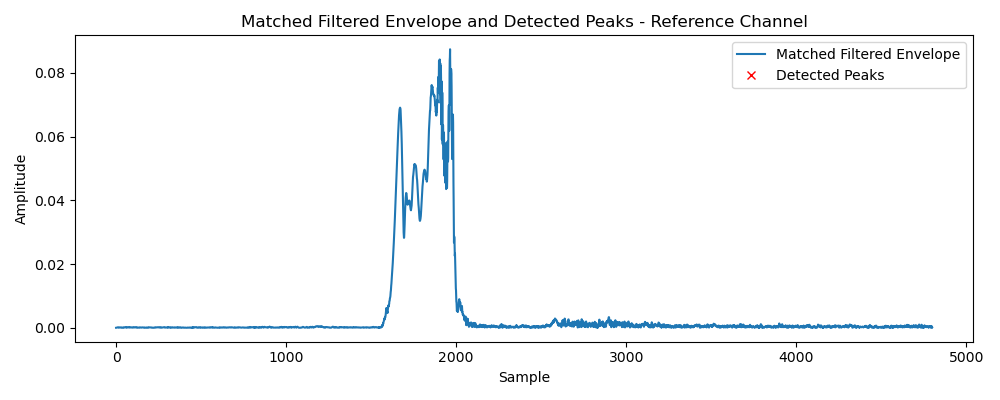
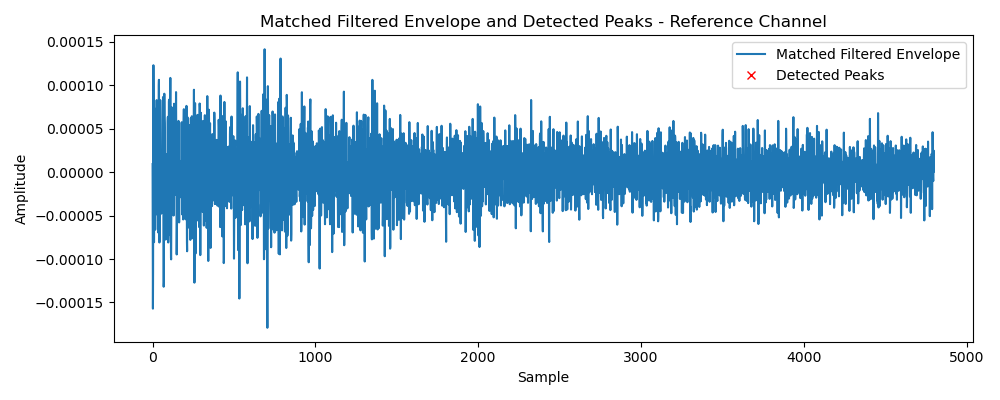
foxed stop issues and partly rejection

diff --git a/passive_robat/robat_py/RobotMove.py b/passive_robat/robat_py/RobotMove.py
@@ -53,10 +53,10 @@ class RobotMove():
                     self.stop()
                     continue  # Go back to top of loop
 
-                #self.avoid_white_line()
+                self.avoid_white_line()
 
                 # Flush the angle queue to obtain the latest angle value.
-                #angle = None
+                #  angle = None
                 while not angle_queue.empty():
                     angle = angle_queue.get()
                     #print('Angle move:', angle)
@@ -90,10 +90,20 @@ class RobotMove():
                     self.robot["leds.bottom.left"] = [255, 0, 0]
                     if angle < 0:
                         print('5: Negative angle received, rotating right')
+                        self.stop()
+                        self.robot["leds.bottom.right"] = [255, 0, 0]
+                        self.robot["leds.bottom.left"] = [255, 0, 0]                    
+                        time.sleep(1)
                         self.rotate_right(angle)
+                        
                     else:
                         print('6: Positive angle received, rotating left')
+                        self.stop()
+                        self.robot["leds.bottom.right"] = [255, 0, 0]
+                        self.robot["leds.bottom.left"] = [255, 0, 0]
+                        time.sleep(1)                        
                         self.rotate_left(angle)
+
                 else:
                     pass
 
@@ -102,14 +112,13 @@ class RobotMove():
                 self.move_forward()
                 level = None
 
-                # A brief delay to avoid overloading the CPU.
-                #time.sleep(0.05)
-
             except Exception as e:
                 print('Error in audio_move:', e)
                 self.stop_bool = True
             except KeyboardInterrupt:
                 self.stop()
+        else:
+            self.stop()
 
     def move_forward(self):
         self.robot["leds.top"] = [0, 255, 0]
@@ -150,6 +159,8 @@ class RobotMove():
             else:
                 self.robot['motor.left.target'] = 0
                 self.robot['motor.right.target'] = 0
+        else:
+            self.stop()
 
     def rotate_left(self, angle):
         if self.robot is not None:
@@ -168,6 +179,9 @@ class RobotMove():
             else:
                 self.robot['motor.left.target'] = 0
                 self.robot['motor.right.target'] = 0
+        else:
+            self.stop()
+
 
     def move_back(self): # move back when robot sees a obstacle in front
         if self.robot is not None:
@@ -187,6 +201,8 @@ class RobotMove():
                 # print("robot stop")
                 self.robot['motor.left.target'] = 0
                 self.robot['motor.right.target'] = 0
+        else:
+            self.stop()
 
     def check_stop_all_motion(self):
         if self.robot is not None:
@@ -194,54 +210,58 @@ class RobotMove():
             if self.robot['prox.ground.delta'][0] < 1 or self.robot['prox.ground.delta'][1] < 10:
                 #print("Robot lifted")
                 return True
-        return False
+        else:
+            self.stop()
+            return False
 
     def avoid_white_line(self):
-        # check if the white line is detected
-        if self.robot['prox.ground.reflected'][0] > self.left_sensor_threshold  and self.robot['prox.ground.reflected'][1] > self.right_sensor_threshold:
-            # Both sensors detect the line
-            #print('line detected L and R')
-            counter = self.angle_to_time(40, self.forward_speed)
-            while counter > 0:
-                if self.check_stop_all_motion():
-                    self.stop_bool = True
-                    break
-                self.robot['motor.left.target'] = self.turn_speed
-                self.robot['motor.right.target'] = -self.turn_speed
-                counter -= 1
-            return
-        if self.robot['prox.ground.reflected'][0] > self.left_sensor_threshold:
-            # Left sensor detects the line
-            #print('line detected L')
-            counter = self.angle_to_time(40, self.forward_speed)
-            while counter > 0:
-                if self.check_stop_all_motion():
-                    #print("stop all motion: rotate right")
-                    self.stop_bool = True
-                    break
-                self.robot['motor.left.target'] = self.turn_speed
-                self.robot['motor.right.target'] = -self.turn_speed
-                counter -= 1
-        if self.robot['prox.ground.reflected'][1] > self.right_sensor_threshold:
-            # Right sensor detects the line   
-            #print('line detected R')
-            counter = self.angle_to_time(40, self.forward_speed)
-            while counter > 0:
-                if self.check_stop_all_motion():
-                    #print("stop all motion: rotate right")
-                    self.stop_bool = True
-                    break
-                self.robot['motor.left.target'] = self.turn_speed
-                self.robot['motor.right.target'] = -self.turn_speed
-                counter -= 1
+        if self.robot is not None:
+            # check if the white line is detected
+            if self.robot['prox.ground.reflected'][0] > self.left_sensor_threshold  and self.robot['prox.ground.reflected'][1] > self.right_sensor_threshold:
+                # Both sensors detect the line
+                #print('line detected L and R')
+                counter = self.angle_to_time(90, self.forward_speed)
+                while counter > 0:
+                    if self.check_stop_all_motion():
+                        self.stop_bool = True
+                        break
+                    self.robot['motor.left.target'] = self.turn_speed
+                    self.robot['motor.right.target'] = -self.turn_speed
+                    counter -= 1
+                return
+            if self.robot['prox.ground.reflected'][0] > self.left_sensor_threshold:
+                # Left sensor detects the line
+                #print('line detected L')
+                counter = self.angle_to_time(90, self.forward_speed)
+                while counter > 0:
+                    if self.check_stop_all_motion():
+                        #print("stop all motion: rotate right")
+                        self.stop_bool = True
+                        break
+                    self.robot['motor.left.target'] = self.turn_speed
+                    self.robot['motor.right.target'] = -self.turn_speed
+                    counter -= 1
+            if self.robot['prox.ground.reflected'][1] > self.right_sensor_threshold:
+                # Right sensor detects the line   
+                #print('line detected R')
+                counter = self.angle_to_time(90, self.forward_speed)
+                while counter > 0:
+                    if self.check_stop_all_motion():
+                        #print("stop all motion: rotate right")
+                        self.stop_bool = True
+                        break
+                    self.robot['motor.left.target'] = self.turn_speed
+                    self.robot['motor.right.target'] = -self.turn_speed
+                    counter -= 1
+        else:
+            self.stop()
 
     def stop(self):
-        if self.robot is not None:
-            self.robot['motor.left.target'] = 0
-            self.robot['motor.right.target'] = 0
-            self.robot["leds.top"] = [0, 0, 0]
-            self.robot["leds.bottom.right"] = [0, 0, 0]
-            self.robot["leds.bottom.left"] = [0, 0, 0]
+        self.robot['motor.left.target'] = 0
+        self.robot['motor.right.target'] = 0
+        self.robot["leds.top"] = [0, 0, 0]
+        self.robot["leds.bottom.right"] = [0, 0, 0]
+        self.robot["leds.bottom.left"] = [0, 0, 0]
 
 #     def collision_avoidance(self):
 #         if self.robot is not None:

diff --git a/passive_robat/robat_py/AudioProcessor.py b/passive_robat/robat_py/AudioProcessor.py
@@ -95,9 +95,9 @@ class AudioProcessor:
     def update(self):
         start_time = time.time()
         in_buffer = self.buffer
-        print('in buffer shape', in_buffer.shape)
+        # print('in buffer shape', in_buffer.shape)
         start_time_1 = time.time()
-        print('buffer queue time seconds=', start_time_1 - start_time)
+        # print('buffer queue time seconds=', start_time_1 - start_time)
 
         # Plot and save the raw input buffer for the reference channel
         # import matplotlib.pyplot as plt
@@ -114,21 +114,41 @@ class AudioProcessor:
         in_sig = signal.sosfiltfilt(self.sos, in_buffer, axis=0)
         # Apply matched filter to each channel separately
 
-        start_time_2 = time.time()
+        # start_time_2 = time.time()
 
+        # # Match filter the input with the output template to find similar sweeps
         # mf_signal = matched_filter(in_sig[:, self.ref], self.sweep)
         # peaks = detect_peaks(mf_signal, self.fs, prominence=0.5, distance=0.01)
+        # if len(peaks) > 0:
+        #     start_idx = peaks[0]
+        #     end_idx = int(start_idx + self.sweep.shape[0])
+        #     trimmed_input_peaks = in_sig[start_idx:end_idx, :]
 
-        filtered_envelope = np.abs(signal.hilbert(in_sig[:, self.ref]))
-        peaks = detect_peaks(filtered_envelope, self.fs, prominence=0.5, distance=0.01)
-        print(np.shape(peaks))
+        #     # plot trimmed input peaks 
+        #     plt.figure(figsize=(10, 12))
+        #     for ch in range(trimmed_input_peaks.shape[1]):
+        #         ax = plt.subplot(trimmed_input_peaks.shape[1], 1, ch + 1, sharey=None if ch == 0 else plt.gca())
+        #         plt.plot(trimmed_input_peaks[:, ch])
+        #         plt.title(f'Trimmed Input Peaks - Channel {ch+1}')
+        #         plt.xlabel('Sample')
+        #         plt.grid(True)
+        #         if ch == 0:
+        #             plt.ylabel('Amplitude')
+        #     plt.tight_layout()
+        #     plt.savefig('trimmed_input_peaks_ref_channel.png')
+        #     plt.close()
+
+        # Filter the input with its envelope but without signal reference template
+        # filtered_envelope = np.abs(signal.hilbert(in_sig[:, self.ref], axis = 0))
+        # peaks = detect_peaks(in_sig[:, self.ref], self.fs, prominence=0.5, distance=0.01)
+
         start_time_3 = time.time()
-        print('matched filter time seconds=', start_time_3 - start_time_2)
+        # print('matched filter time seconds=', start_time_3 - start_time_2)
 
         # Plot matched filtered signal and detected peaks for the reference channel
         # plt.figure(figsize=(10, 4))
-        # plt.plot(filtered_envelope, label='Matched Filtered Envelope')
-        # plt.plot(peaks, filtered_envelope[peaks], "rx", label='Detected Peaks')
+        # plt.plot(in_sig[:, self.ref], label='Matched Filtered Envelope')
+        # plt.plot(peaks, mf_signal[peaks], "rx", label='Detected Peaks')
         # plt.title('Matched Filtered Envelope and Detected Peaks - Reference Channel')
         # plt.xlabel('Sample')
         # plt.ylabel('Amplitude')
@@ -161,7 +181,7 @@ class AudioProcessor:
         freqwise_Parms = freqrms/self.interp_sensitivity
         
         start_time_4 = time.time()
-        print('rms freqwise time =', start_time_4 - start_time_3)
+        # print('rms freqwise time =', start_time_4 - start_time_3)
         # # Calculate and save the average noise spectrum (ANS) figure
 
         # plt.figure(figsize=(10, 4))
@@ -198,7 +218,7 @@ class AudioProcessor:
         print('avarage theta',avar_theta1)
         
         end_time = time.time()
-        print('update time seconds =', end_time - start_time_1) 
+        # print('update time seconds =', end_time - start_time_1) 
 
         if dB_SPL_level > self.trigger_level or dB_SPL_level > self.critical_level:
             return np.rad2deg(avar_theta), dB_SPL_level

diff --git a/passive_robat/robat_py/robatv1_2.py b/passive_robat/robat_py/robatv1_2.py
@@ -63,13 +63,13 @@ raspi_local_ip = ni.ifaddresses('wlan0')[2][0]['addr']
 print('raspi_local_ip =', raspi_local_ip)
 
 # Parameters for the DOA algorithms
-trigger_level =  52 # dB SPL
-critical_level = 90 # dB SPL
+trigger_level =  60 # dB SPL
+critical_level = 70 # dB SPL
 c = 343   # speed of sound
 fs = 48000
 
 rec_samplerate = 48000
-input_buffer_time = 0.1 # seconds
+input_buffer_time = 0.05 # seconds
 block_size = int(input_buffer_time*fs)  #used for the shared queue from which the doa is computed, not anymore for the output stream
 channels = 5
 mic_spacing = 0.018 #m
@@ -97,7 +97,7 @@ N_peaks = 1 # Number of peaks to detect in DAS spectrum
 # Parameters for the chirp signal
 rand = random.uniform(0.8, 1.2)
 duration_out = 10e-3  # Duration in seconds
-silence_dur = 100 # [ms] can probably pushed to 20 
+silence_dur = 60 # [ms] can probably pushed to 20 
 amplitude = 1 # Amplitude of the chirp
 
 t = np.linspace(0, duration_out, int(fs*duration_out))
@@ -269,11 +269,12 @@ if __name__ == '__main__':
                                 callback=audio_processor.callback_out) as out_stream:
                                 while out_stream.active:
                                     pass
-            print('out time =', time.time() - start_time)                       
+            # print('out time =', time.time() - start_time)                       
             start_time_1 = time.time()
-            time.sleep(0.1)  # Allow some time for the audio input to be processed
+              # Allow some time for the audio input to be processed
             if method == 'CC':
-                print('0 time =', time.time() - start_time_1) 
+                time.sleep(0.25)
+                # print('0 time =', time.time() - start_time_1) 
                 args.angle, dB_SPL_level = audio_processor.update()  
                 angle_queue.put(args.angle)
                 level_queue.put(dB_SPL_level)
@@ -294,7 +295,7 @@ if __name__ == '__main__':
                 robot_move.stop()
 
 
-            print('in time =', time.time() - start_time_1)
+            # print('in time =', time.time() - start_time_1)
         else:
             #print('in time =', time.time() - start_time)
             robot_move.stop()
@@ -313,5 +314,4 @@ if __name__ == '__main__':
         move_thread.join()
         print('\nRecording finished: ' + repr(args.filename)) 
         parser.exit(0)  
-        # Stop robot
         
